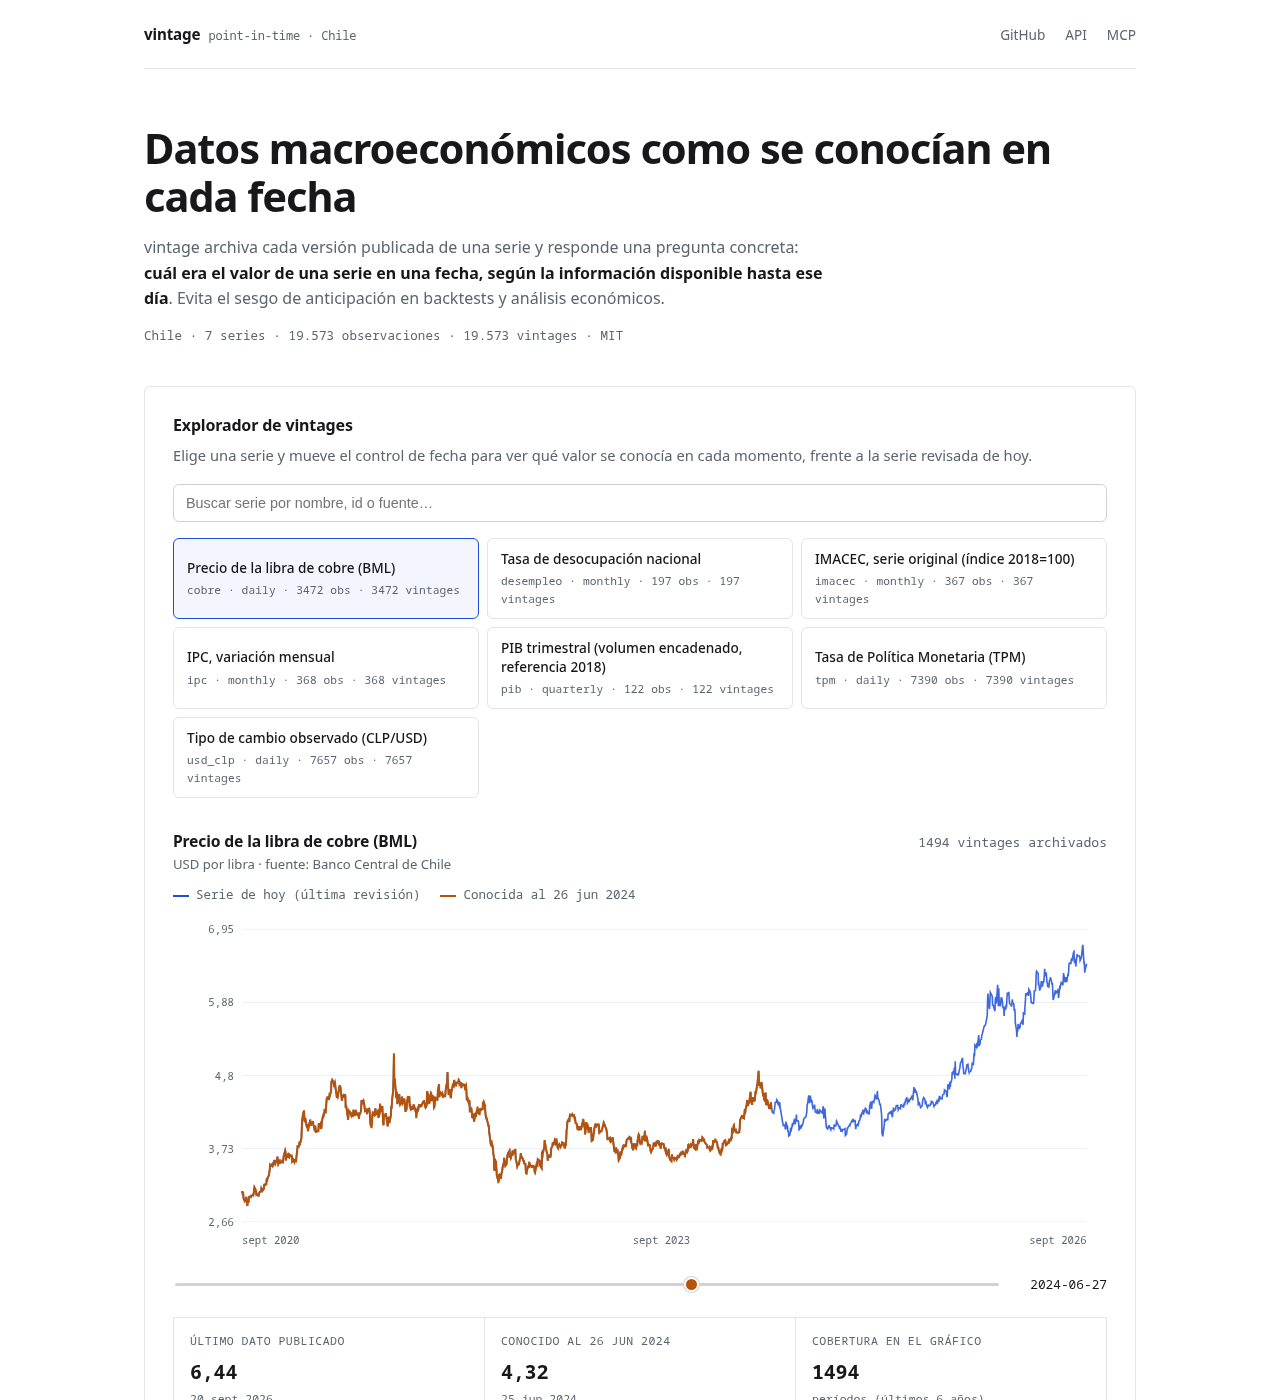
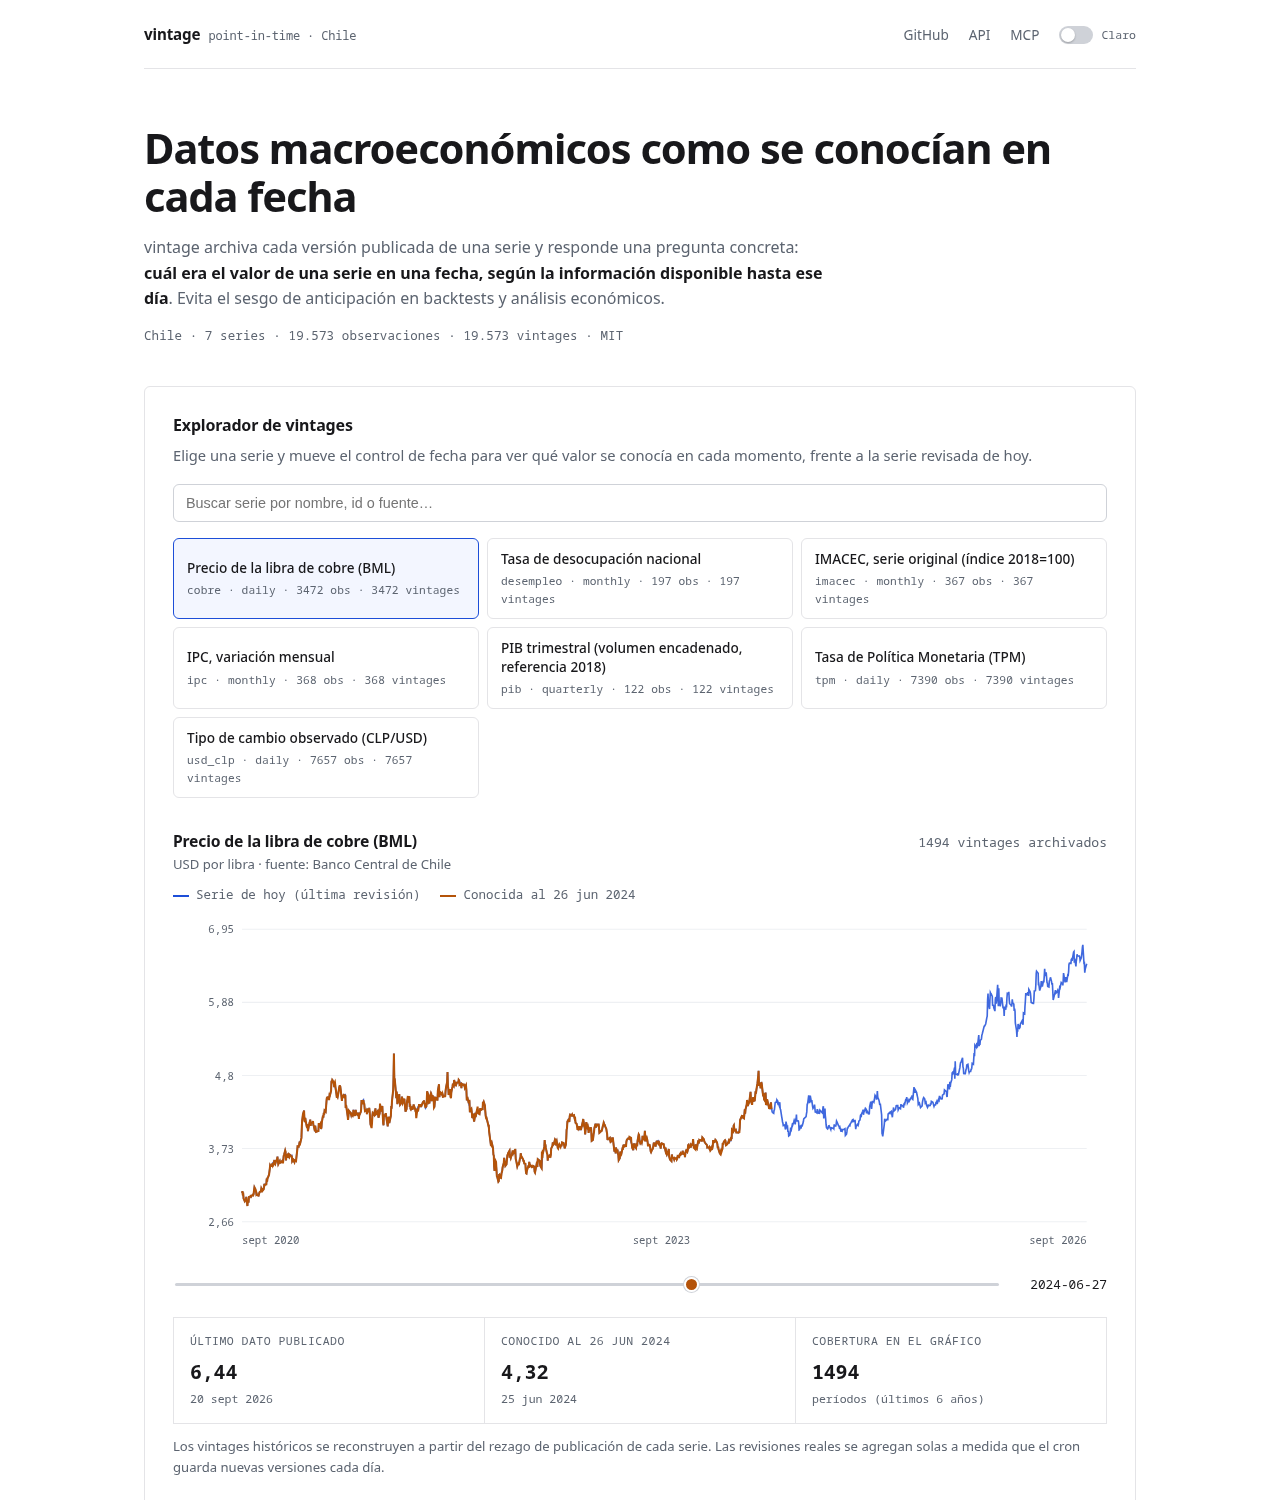
feat(web): light/dark theme switch on the landing page
- Theme toggle in the top bar, persisted in localStorage
- No flash: inline script applies the stored/system theme before paint
- Deep-linkable via ?theme=light|dark alongside ?as_of=
- README shows both themes

diff --git a/src/app/globals.css b/src/app/globals.css
@@ -10,10 +10,30 @@
   --accent-soft: #f3f6ff;
   --accent-2: #b45309;
   --danger: #b91c1c;
+  --grid: #eef0f3;
+  --code: #1f2937;
   --radius: 6px;
   --mono: ui-monospace, SFMono-Regular, "SF Mono", Menlo, Consolas, monospace;
   --sans: system-ui, -apple-system, "Segoe UI", Roboto, Helvetica, Arial,
     sans-serif;
+  color-scheme: light;
+}
+
+html[data-theme="dark"] {
+  --bg: #0e1116;
+  --panel: #14181e;
+  --panel-2: #191e25;
+  --border: #262c35;
+  --border-strong: #3a424e;
+  --text: #e7e9ec;
+  --muted: #99a2ad;
+  --accent: #7cb0ff;
+  --accent-soft: #16223a;
+  --accent-2: #f0a868;
+  --danger: #f87171;
+  --grid: #21262e;
+  --code: #d5dbe4;
+  color-scheme: dark;
 }
 
 * {
@@ -87,6 +107,57 @@ a:hover {
 
 .topbar nav a:hover {
   color: var(--text);
+}
+
+.theme-toggle {
+  display: inline-flex;
+  align-items: center;
+  gap: 8px;
+  border: 0;
+  background: none;
+  padding: 0;
+  color: var(--muted);
+  font: inherit;
+  font-size: 0.8rem;
+  cursor: pointer;
+}
+
+.theme-toggle:hover {
+  color: var(--text);
+}
+
+.theme-toggle-track {
+  position: relative;
+  width: 34px;
+  height: 18px;
+  border-radius: 999px;
+  background: var(--border-strong);
+  transition: background-color 0.15s ease;
+}
+
+.theme-toggle-thumb {
+  position: absolute;
+  top: 2px;
+  left: 2px;
+  width: 14px;
+  height: 14px;
+  border-radius: 50%;
+  background: var(--bg);
+  box-shadow: 0 1px 2px rgba(0, 0, 0, 0.25);
+  transition: transform 0.15s ease;
+}
+
+.theme-toggle[aria-checked="true"] .theme-toggle-track {
+  background: var(--accent);
+}
+
+.theme-toggle[aria-checked="true"] .theme-toggle-thumb {
+  transform: translateX(16px);
+}
+
+.theme-toggle-label {
+  font-family: var(--mono);
+  font-size: 0.72rem;
 }
 
 /* Hero ------------------------------------------------------------------- */
@@ -284,7 +355,7 @@ a:hover {
 }
 
 .grid-line {
-  stroke: #eef0f3;
+  stroke: var(--grid);
   stroke-width: 1;
 }
 
@@ -324,7 +395,7 @@ a:hover {
   height: 15px;
   border-radius: 50%;
   background: var(--accent-2);
-  border: 2px solid #ffffff;
+  border: 2px solid var(--bg);
   box-shadow: 0 0 0 1px var(--border-strong);
 }
 
@@ -333,7 +404,7 @@ a:hover {
   height: 13px;
   border-radius: 50%;
   background: var(--accent-2);
-  border: 2px solid #ffffff;
+  border: 2px solid var(--bg);
   box-shadow: 0 0 0 1px var(--border-strong);
 }
 
@@ -423,7 +494,7 @@ pre {
   overflow-x: auto;
   font-size: 0.78rem;
   line-height: 1.6;
-  color: #1f2937;
+  color: var(--code);
   margin: 0 0 16px;
 }
 

diff --git a/src/components/ThemeToggle.tsx b/src/components/ThemeToggle.tsx
@@ -1,0 +1,47 @@
+"use client";
+
+import { useEffect, useState } from "react";
+
+type Theme = "light" | "dark";
+
+function currentTheme(): Theme {
+  if (typeof document === "undefined") return "light";
+  return document.documentElement.dataset.theme === "dark" ? "dark" : "light";
+}
+
+export default function ThemeToggle() {
+  const [theme, setTheme] = useState<Theme>("light");
+
+  useEffect(() => {
+    setTheme(currentTheme());
+  }, []);
+
+  function toggle() {
+    const next: Theme = theme === "dark" ? "light" : "dark";
+    setTheme(next);
+    document.documentElement.dataset.theme = next;
+    try {
+      localStorage.setItem("vintage-theme", next);
+    } catch {
+      // storage may be unavailable; the theme still applies for this session
+    }
+  }
+
+  const isDark = theme === "dark";
+
+  return (
+    <button
+      type="button"
+      className="theme-toggle"
+      role="switch"
+      aria-checked={isDark}
+      aria-label="Cambiar entre tema claro y oscuro"
+      onClick={toggle}
+    >
+      <span className="theme-toggle-track">
+        <span className="theme-toggle-thumb" />
+      </span>
+      <span className="theme-toggle-label">{isDark ? "Oscuro" : "Claro"}</span>
+    </button>
+  );
+}

diff --git a/src/app/layout.tsx b/src/app/layout.tsx
@@ -13,13 +13,18 @@ export const metadata: Metadata = {
   },
 };
 
+const THEME_SCRIPT = `(function(){try{var p=new URLSearchParams(location.search);var q=p.get('theme');var s=localStorage.getItem('vintage-theme');var t=q==='dark'||q==='light'?q:(s||(window.matchMedia('(prefers-color-scheme: dark)').matches?'dark':'light'));document.documentElement.dataset.theme=t;}catch(e){document.documentElement.dataset.theme='light';}})();`;
+
 export default function RootLayout({
   children,
 }: {
   children: React.ReactNode;
 }) {
   return (
-    <html lang="es">
+    <html lang="es" suppressHydrationWarning>
+      <head>
+        <script dangerouslySetInnerHTML={{ __html: THEME_SCRIPT }} />
+      </head>
       <body>{children}</body>
     </html>
   );

diff --git a/src/app/page.tsx b/src/app/page.tsx
@@ -1,4 +1,5 @@
 import { headers } from "next/headers";
+import ThemeToggle from "@/components/ThemeToggle";
 import VintageExplorer, { type HistoryRow } from "@/components/VintageExplorer";
 import { getDb } from "@/lib/db";
 import { LIMITS } from "@/lib/limits";
@@ -72,6 +73,7 @@ export default async function HomePage() {
           <a href={REPO_URL}>GitHub</a>
           <a href={`${origin}/api`}>API</a>
           <a href={`${origin}/api/mcp`}>MCP</a>
+          <ThemeToggle />
         </nav>
       </header>
 

diff --git a/README.md b/README.md
@@ -160,9 +160,13 @@ returns each period exactly as it was known that day.
 
 The landing page lets you search series and drag a date slider to compare the
 latest revision ("series of today") against the data that was known on any
-publication date.
+publication date. It ships with a light/dark theme switch and deep-linkable
+vintages (`/?as_of=2024-06-30&theme=dark`).
 
-![demo](docs/demo.png)
+<p>
+  <img src="docs/demo.png" alt="vintage demo, light theme" width="49%">
+  <img src="docs/demo-dark.png" alt="vintage demo, dark theme" width="49%">
+</p>
 
 ---
 
